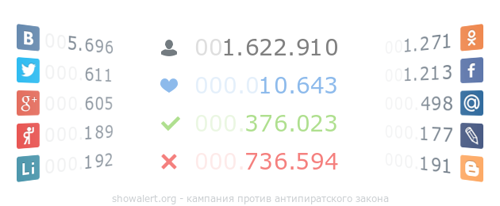
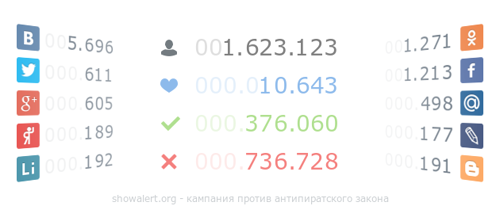
some updates

Changed region(s): [[0.54, 0.1748, 0.69, 0.2913], [0.57, 0.7282, 0.69, 0.8447], [0.6, 0.5534, 0.69, 0.6408]]

diff --git a/votes.js b/votes.js
@@ -1,1 +1,1 @@
-window.lk.votes(24902)
+window.lk.votes(24921)
